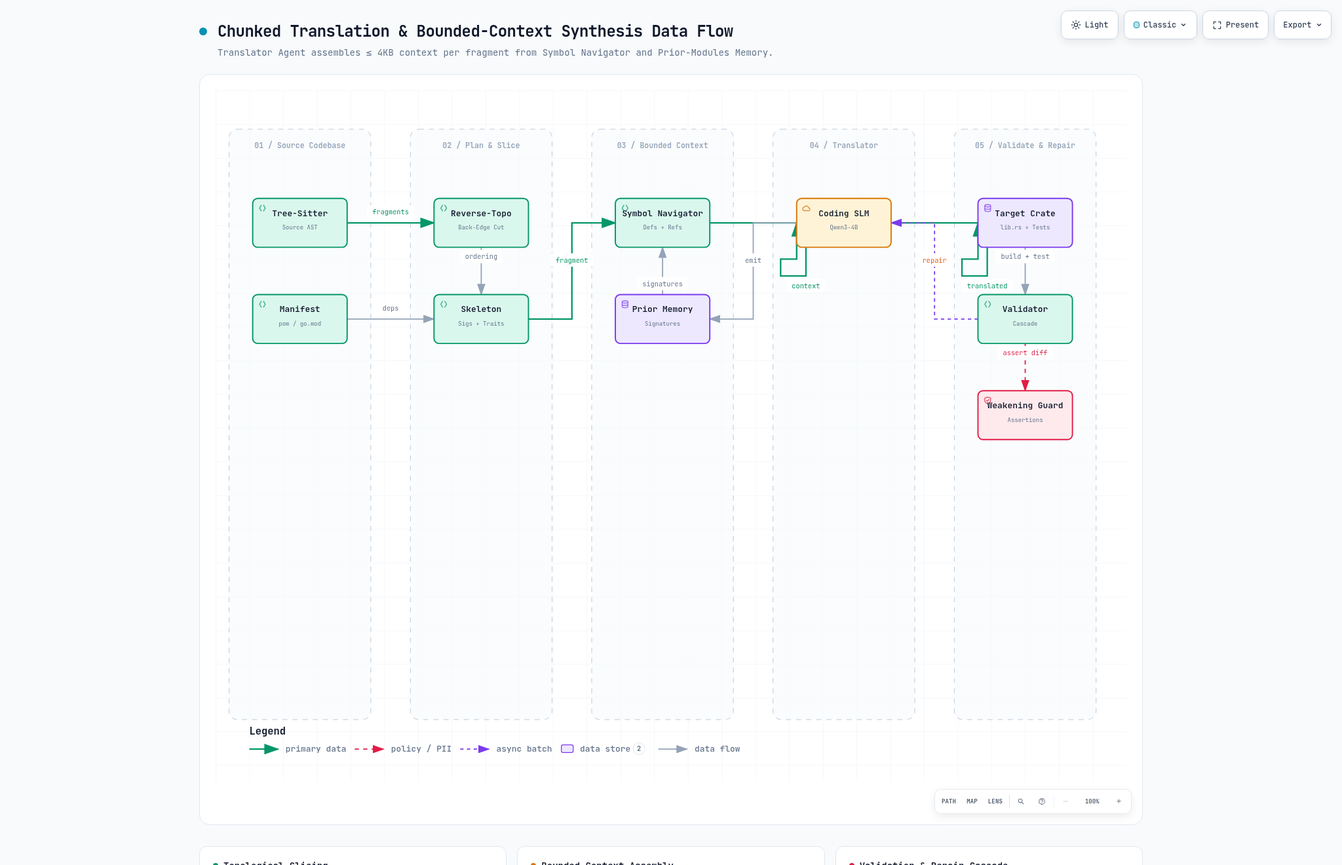
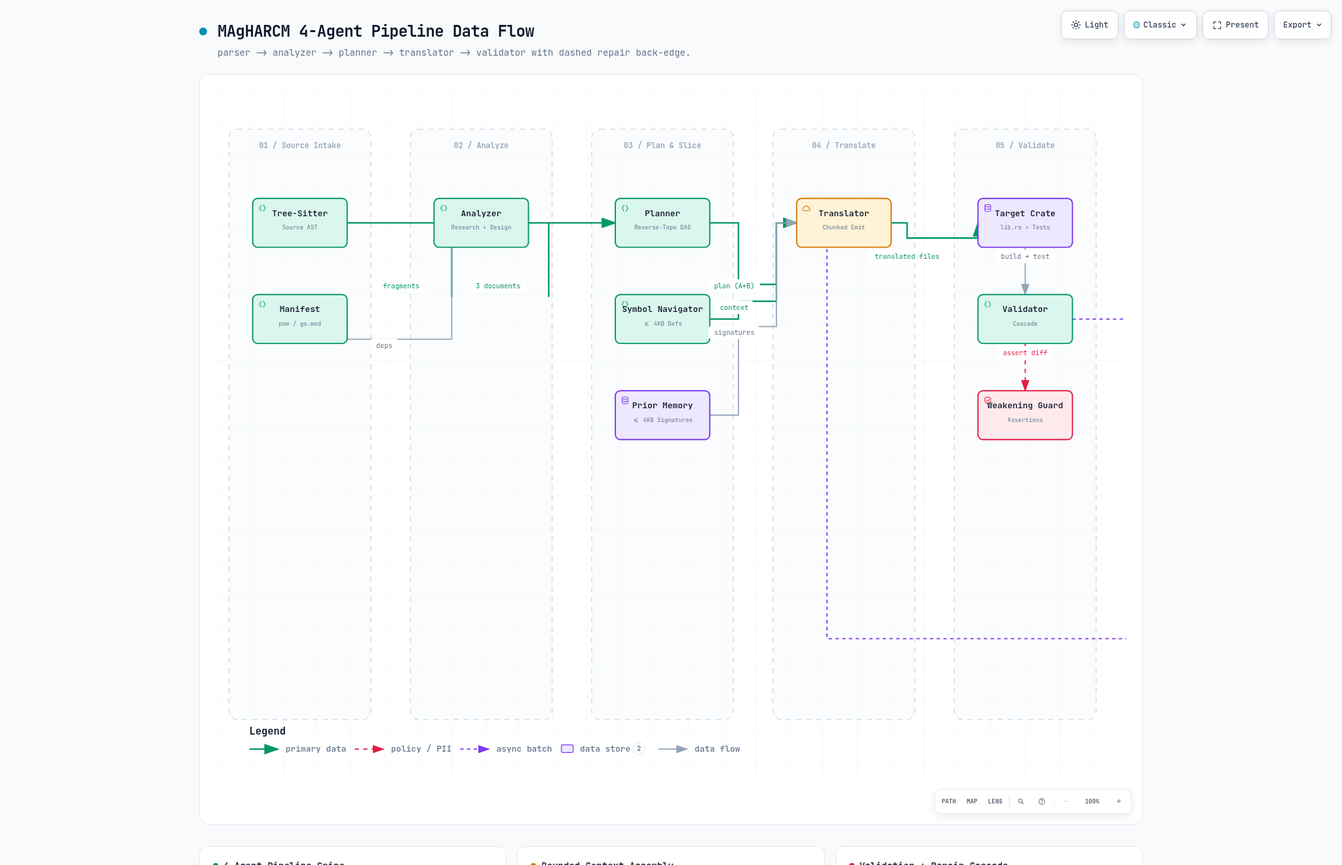
figure(dataflow): replace obsolete tool-centric spine with 4-agent pipeline
Per advisory: the dataflow still showed the obsolete PRIM-2 Symbol
Navigator + Prior Memory as the spine, when the actual architecture
is parser -> analyzer -> planner -> translator -> validator.

Restructured the dataflow to show:
- Source Intake stage: parser (Tree-Sitter) + Manifest
- Analyze stage: Analyzer (8B reasoning) emitting 3 documents
- Plan & Slice stage: Planner (Reverse-Topo DAG)
- Translate stage: Translator (4B coding) bounded by Symbol
  Navigator + Prior Memory as context inputs (not spine)
- Validate stage: Target Crate -> Validator cascade -> Weakening
  Guard
- Dashed repair back-edge: validator -> translator routed around
  the bottom of the diagram (mirrors workflow's repair loop)

Routing fixes (10 flows, all showcase-validated):
- Use explicit via arrays with x/y alignment to neighbor segments
- Spread spine corridor at x=620 (right of stage 2 nodes) to
  prevent edge-through-node collisions on stacked nodes
- Route translator -> rust_crate via x=820 (left of validator column)
- Route repair via x=725 corridor below node row
- labelAt positions chosen to avoid label-route-clearance violations

Result: archify validate --quality showcase passes for all 9 checks
on the dataflow; lifecycle unchanged and still passing.

Verification:
- python3 -c 'import json; json.load(open("chunked-translation.dataflow.json"))'
  passes (10 flows, 3 cards)
- archify validate dataflow --quality showcase: ok=true
[…]

diff --git a/docs/.paper/figures/chunked-translation.html b/docs/.paper/figures/chunked-translation.html
@@ -4,7 +4,7 @@
   <meta charset="UTF-8">
   <meta name="viewport" content="width=device-width, initial-scale=1.0">
   <meta name="generator" content="archify 2.17.0-dev.1">
-  <title>Chunked Translation &amp; Bounded-Context Synthesis Data Flow Diagram</title>
+  <title>MAgHARCM 4-Agent Pipeline Data Flow Diagram</title>
   <script>
     // Resolve the theme before first paint so light-preference users don't
     // see a dark flash. The toolbar script below re-applies with UI state.
@@ -4955,9 +4955,9 @@
            data-preset-badge-blueprint="BLUEPRINT / REV 01"
            data-preset-badge-editorial="EDITORIAL / FIELD NOTE">
         <div class="pulse-dot"></div>
-        <h1>Chunked Translation &amp; Bounded-Context Synthesis Data Flow</h1>
+        <h1>MAgHARCM 4-Agent Pipeline Data Flow</h1>
       </div>
-      <p class="subtitle">Translator Agent assembles ≤ 4KB context per fragment from Symbol Navigator and Prior-Modules Memory.</p>
+      <p class="subtitle">parser -&gt; analyzer -&gt; planner -&gt; translator -&gt; validator with dashed repair back-edge.</p>
     </div>
 
     <script id="archify-guided-views-data" type="application/json">[]</script>
@@ -5006,8 +5006,8 @@
     <div class="diagram-container" data-detail-level="read"
          data-preset-badge-editorial-plate="ARCHIFY / PLATE 04">
       <svg viewBox="0 0 1080 820" role="img" lang="en" aria-labelledby="archify-diagram-title archify-diagram-description" data-preset="classic" data-quality-profile="showcase">
-        <title id="archify-diagram-title">Chunked Translation &amp; Bounded-Context Synthesis Data Flow</title>
-        <desc id="archify-diagram-description">Translator Agent assembles ≤ 4KB context per fragment from Symbol Navigator and Prior-Modules Memory.</desc>
+        <title id="archify-diagram-title">MAgHARCM 4-Agent Pipeline Data Flow</title>
+        <desc id="archify-diagram-description">parser -&gt; analyzer -&gt; planner -&gt; translator -&gt; validator with dashed repair back-edge.</desc>
         <!-- Definitions -->
         <defs>
           <marker id="arrowhead" markerWidth="10" markerHeight="7" refX="9" refY="3.5" orient="auto">
@@ -5032,36 +5032,35 @@
 
         <!-- Data Stages -->
         <rect data-graph-role="structural-frame" data-composition-frame-kind="stage" data-composition-frame-id="0" x="16" y="46" width="168" height="700" rx="10" class="c-lane" stroke-width="1"/>
-        <text x="100" y="68" class="t-dim" font-size="9" font-weight="600" text-anchor="middle">01 / Source Codebase</text>
+        <text x="100" y="68" class="t-dim" font-size="9" font-weight="600" text-anchor="middle">01 / Source Intake</text>
 
         <rect data-graph-role="structural-frame" data-composition-frame-kind="stage" data-composition-frame-id="1" x="231" y="46" width="168" height="700" rx="10" class="c-lane" stroke-width="1"/>
-        <text x="315" y="68" class="t-dim" font-size="9" font-weight="600" text-anchor="middle">02 / Plan &amp; Slice</text>
+        <text x="315" y="68" class="t-dim" font-size="9" font-weight="600" text-anchor="middle">02 / Analyze</text>
 
         <rect data-graph-role="structural-frame" data-composition-frame-kind="stage" data-composition-frame-id="2" x="446" y="46" width="168" height="700" rx="10" class="c-lane" stroke-width="1"/>
-        <text x="530" y="68" class="t-dim" font-size="9" font-weight="600" text-anchor="middle">03 / Bounded Context</text>
+        <text x="530" y="68" class="t-dim" font-size="9" font-weight="600" text-anchor="middle">03 / Plan &amp; Slice</text>
 
         <rect data-graph-role="structural-frame" data-composition-frame-kind="stage" data-composition-frame-id="3" x="661" y="46" width="168" height="700" rx="10" class="c-lane" stroke-width="1"/>
-        <text x="745" y="68" class="t-dim" font-size="9" font-weight="600" text-anchor="middle">04 / Translator</text>
+        <text x="745" y="68" class="t-dim" font-size="9" font-weight="600" text-anchor="middle">04 / Translate</text>
 
         <rect data-graph-role="structural-frame" data-composition-frame-kind="stage" data-composition-frame-id="4" x="876" y="46" width="168" height="700" rx="10" class="c-lane" stroke-width="1"/>
-        <text x="960" y="68" class="t-dim" font-size="9" font-weight="600" text-anchor="middle">05 / Validate &amp; Repair</text>
+        <text x="960" y="68" class="t-dim" font-size="9" font-weight="600" text-anchor="middle">05 / Validate</text>
 
         <!-- Flow paths -->
-        <path data-edge-from="src_ast" data-edge-to="reverse_topo" data-edge-label="fragments" data-edge-key="0" data-composition-points="156,157;259,157" d="M 156 157 L 259 157" class="a-emphasis" stroke-width="1.8" marker-end="url(#arrowhead-emphasis)"/>
-        <path data-edge-from="src_manifest" data-edge-to="skeleton" data-edge-label="deps" data-edge-key="1" data-composition-points="156,271;259,271" d="M 156 271 L 259 271" class="a-default" stroke-width="1.4" marker-end="url(#arrowhead)"/>
-        <path data-edge-from="reverse_topo" data-edge-to="skeleton" data-edge-label="ordering" data-edge-key="2" data-composition-points="315,186;315,242" d="M 315 186 L 315 242" class="a-default" stroke-width="1.4" marker-end="url(#arrowhead)"/>
-        <path data-edge-from="skeleton" data-edge-to="nav_symbols" data-edge-label="fragment" data-edge-key="3" data-composition-points="371,271;422.5,271;422.5,157;474,157" d="M 371 271 L 422.5 271 L 422.5 157 L 474 157" class="a-emphasis" stroke-width="1.8" marker-end="url(#arrowhead-emphasis)"/>
-        <path data-edge-from="prior_summary" data-edge-to="nav_symbols" data-edge-label="signatures" data-edge-key="4" data-composition-points="530,242;530,186" d="M 530 242 L 530 186" class="a-default" stroke-width="1.4" marker-end="url(#arrowhead)"/>
-        <path data-edge-from="nav_symbols" data-edge-to="coding_slm" data-edge-label="context" data-edge-key="5" data-composition-points="586,157;700,157;700,220;670,220;670,200;689,200;689,157" d="M 586 157 L 700 157 L 700 220 L 670 220 L 670 200 L 689 200 L 689 157" class="a-emphasis" stroke-width="1.8" marker-end="url(#arrowhead-emphasis)"/>
-        <path data-edge-from="coding_slm" data-edge-to="rust_crate" data-edge-label="translated" data-edge-key="6" data-composition-points="801,157;915,157;915,220;885,220;885,200;904,200;904,157" d="M 801 157 L 915 157 L 915 220 L 885 220 L 885 200 L 904 200 L 904 157" class="a-emphasis" stroke-width="1.8" marker-end="url(#arrowhead-emphasis)"/>
-        <path data-edge-from="coding_slm" data-edge-to="prior_summary" data-edge-label="emit" data-edge-key="7" data-composition-points="689,157;637.5,157;637.5,271;586,271" d="M 689 157 L 637.5 157 L 637.5 271 L 586 271" class="a-default" stroke-width="1.4" marker-end="url(#arrowhead)"/>
-        <path data-edge-from="rust_crate" data-edge-to="validation_report" data-edge-label="build + test" data-edge-key="8" data-composition-points="960,186;960,242" d="M 960 186 L 960 242" class="a-default" stroke-width="1.4" marker-end="url(#arrowhead)"/>
-        <path data-edge-from="validation_report" data-edge-to="weakening_guard" data-edge-label="assert diff" data-edge-key="9" data-composition-points="960,300;960,356" d="M 960 300 L 960 356" class="a-security" stroke-width="1.4" marker-end="url(#arrowhead-security)"/>
-        <path data-edge-from="validation_report" data-edge-to="coding_slm" data-edge-label="repair" data-edge-key="10" data-composition-points="904,271;852.5,271;852.5,157;801,157" d="M 904 271 L 852.5 271 L 852.5 157 L 801 157" class="a-dashed" stroke-width="1.4" marker-end="url(#arrowhead-dashed)"/>
+        <path data-edge-from="src_ast" data-edge-to="analyzer_doc" data-edge-label="fragments" data-edge-key="0" data-composition-points="156,157;280,157;280,245;280,157;259,157" d="M 156 157 L 280 157 L 280 245 L 280 157 L 259 157" class="a-emphasis" stroke-width="1.8" marker-end="url(#arrowhead-emphasis)"/>
+        <path data-edge-from="src_manifest" data-edge-to="analyzer_doc" data-edge-label="deps" data-edge-key="1" data-composition-points="156,271;156,295;280,295;280,157;259,157" d="M 156 271 L 156 295 L 280 295 L 280 157 L 259 157" class="a-default" stroke-width="1.4" marker-end="url(#arrowhead)"/>
+        <path data-edge-from="analyzer_doc" data-edge-to="skeleton" data-edge-label="3 documents" data-edge-key="2" data-composition-points="371,157;395,157;395,245;395,157;474,157" d="M 371 157 L 395 157 L 395 245 L 395 157 L 474 157" class="a-emphasis" stroke-width="1.8" marker-end="url(#arrowhead-emphasis)"/>
+        <path data-edge-from="skeleton" data-edge-to="translator_agent" data-edge-label="plan (A+B)" data-edge-key="3" data-composition-points="586,157;620,157;620,230;665,230;665,157;689,157" d="M 586 157 L 620 157 L 620 230 L 665 230 L 665 157 L 689 157" class="a-emphasis" stroke-width="1.8" marker-end="url(#arrowhead-emphasis)"/>
+        <path data-edge-from="nav_symbols" data-edge-to="translator_agent" data-edge-label="context" data-edge-key="4" data-composition-points="586,271;620,271;620,250;665,250;665,157;689,157" d="M 586 271 L 620 271 L 620 250 L 665 250 L 665 157 L 689 157" class="a-emphasis" stroke-width="1.8" marker-end="url(#arrowhead-emphasis)"/>
+        <path data-edge-from="prior_memory" data-edge-to="translator_agent" data-edge-label="signatures" data-edge-key="5" data-composition-points="586,385;620,385;620,280;665,280;665,157;689,157" d="M 586 385 L 620 385 L 620 280 L 665 280 L 665 157 L 689 157" class="a-default" stroke-width="1.4" marker-end="url(#arrowhead)"/>
+        <path data-edge-from="translator_agent" data-edge-to="rust_crate" data-edge-label="translated files" data-edge-key="6" data-composition-points="801,157;785,157;820,157;820,175;904,175;904,157" d="M 801 157 L 785 157 L 820 157 L 820 175 L 904 175 L 904 157" class="a-emphasis" stroke-width="1.8" marker-end="url(#arrowhead-emphasis)"/>
+        <path data-edge-from="rust_crate" data-edge-to="validator_agent" data-edge-label="build + test" data-edge-key="7" data-composition-points="960,186;960,242" d="M 960 186 L 960 242" class="a-default" stroke-width="1.4" marker-end="url(#arrowhead)"/>
+        <path data-edge-from="validator_agent" data-edge-to="weakening_guard" data-edge-label="assert diff" data-edge-key="8" data-composition-points="960,300;960,356" d="M 960 300 L 960 356" class="a-security" stroke-width="1.4" marker-end="url(#arrowhead-security)"/>
+        <path data-edge-from="validator_agent" data-edge-to="translator_agent" data-edge-label="repair" data-edge-key="9" data-composition-points="904,271;1100,271;1100,650;725,650;725,157;801,157" d="M 904 271 L 1100 271 L 1100 650 L 725 650 L 725 157 L 801 157" class="a-dashed" stroke-width="1.4" marker-end="url(#arrowhead-dashed)"/>
 
         <!-- Nodes -->
-        <g id="node-src_ast" data-node-id="src_ast" data-node-label="Tree-Sitter" tabindex="0" role="button" aria-label="Focus Tree-Sitter, Source AST, 01 / Source Codebase" aria-pressed="false" data-node-kind="backend" data-node-sublabel="Source AST" data-node-tag="PA tool" data-node-context="01 / Source Codebase">
-          <title>Tree-Sitter · Source AST · 01 / Source Codebase · PA tool</title>
+        <g id="node-src_ast" data-node-id="src_ast" data-node-label="Tree-Sitter" tabindex="0" role="button" aria-label="Focus Tree-Sitter, Source AST, 01 / Source Intake" aria-pressed="false" data-node-kind="backend" data-node-sublabel="Source AST" data-node-tag="parser" data-node-context="01 / Source Intake">
+          <title>Tree-Sitter · Source AST · 01 / Source Intake · parser</title>
           <rect x="44" y="128" width="112" height="58" rx="6" class="c-mask"/>
           <rect x="44" y="128" width="112" height="58" rx="6" class="c-backend" stroke-width="1.5"/>
           <g aria-hidden="true" data-semantic-sigil="backend" class="semantic-sigil s-backend" transform="translate(50 134) scale(0.6875)">
@@ -5069,11 +5068,11 @@
           </g>
           <text data-node-label="" data-detail-anchor="" x="100" y="149" class="t-primary" font-size="10" font-weight="600" text-anchor="middle">Tree-Sitter</text>
           <text data-detail="context" x="100" y="165" class="t-muted" font-size="7" text-anchor="middle">Source AST</text>
-        <text data-detail="fine" x="100" y="175" class="t-backend" font-size="7" text-anchor="middle">PA tool</text>
+        <text data-detail="fine" x="100" y="175" class="t-backend" font-size="7" text-anchor="middle">parser</text>
         </g>
 
-        <g id="node-src_manifest" data-node-id="src_manifest" data-node-label="Manifest" tabindex="0" role="button" aria-label="Focus Manifest, pom / go.mod, 01 / Source Codebase" aria-pressed="false" data-node-kind="backend" data-node-sublabel="pom / go.mod" data-node-tag="Deps" data-node-context="01 / Source Codebase">
-          <title>Manifest · pom / go.mod · 01 / Source Codebase · Deps</title>
+        <g id="node-src_manifest" data-node-id="src_manifest" data-node-label="Manifest" tabindex="0" role="button" aria-label="Focus Manifest, pom / go.mod, 01 / Source Intake" aria-pressed="false" data-node-kind="backend" data-node-sublabel="pom / go.mod" data-node-tag="deps" data-node-context="01 / Source Intake">
+          <title>Manifest · pom / go.mod · 01 / Source Intake · deps</title>
           <rect x="44" y="242" width="112" height="58" rx="6" class="c-mask"/>
           <rect x="44" y="242" width="112" height="58" rx="6" class="c-backend" stroke-width="1.5"/>
           <g aria-hidden="true" data-semantic-sigil="backend" class="semantic-sigil s-backend" transform="translate(50 248) scale(0.6875)">
@@ -5081,72 +5080,72 @@
           </g>
           <text data-node-label="" data-detail-anchor="" x="100" y="263" class="t-primary" font-size="10" font-weight="600" text-anchor="middle">Manifest</text>
           <text data-detail="context" x="100" y="279" class="t-muted" font-size="7" text-anchor="middle">pom / go.mod</text>
-        <text data-detail="fine" x="100" y="289" class="t-backend" font-size="7" text-anchor="middle">Deps</text>
+        <text data-detail="fine" x="100" y="289" class="t-backend" font-size="7" text-anchor="middle">deps</text>
         </g>
 
-        <g id="node-reverse_topo" data-node-id="reverse_topo" data-node-label="Reverse-Topo" tabindex="0" role="button" aria-label="Focus Reverse-Topo, Back-Edge Cut, 02 / Plan &amp; Slice" aria-pressed="false" data-node-kind="backend" data-node-sublabel="Back-Edge Cut" data-node-tag="Planner" data-node-context="02 / Plan &amp; Slice">
-          <title>Reverse-Topo · Back-Edge Cut · 02 / Plan &amp; Slice · Planner</title>
+        <g id="node-analyzer_doc" data-node-id="analyzer_doc" data-node-label="Analyzer" tabindex="0" role="button" aria-label="Focus Analyzer, Research + Design, 02 / Analyze" aria-pressed="false" data-node-kind="backend" data-node-sublabel="Research + Design" data-node-tag="8B reasoning" data-node-context="02 / Analyze">
+          <title>Analyzer · Research + Design · 02 / Analyze · 8B reasoning</title>
           <rect x="259" y="128" width="112" height="58" rx="6" class="c-mask"/>
           <rect x="259" y="128" width="112" height="58" rx="6" class="c-backend" stroke-width="1.5"/>
           <g aria-hidden="true" data-semantic-sigil="backend" class="semantic-sigil s-backend" transform="translate(265 134) scale(0.6875)">
             <path d="M6 3 3 8l3 5M10 3l3 5-3 5"/>
           </g>
-          <text data-node-label="" data-detail-anchor="" x="315" y="149" class="t-primary" font-size="10" font-weight="600" text-anchor="middle">Reverse-Topo</text>
-          <text data-detail="context" x="315" y="165" class="t-muted" font-size="7" text-anchor="middle">Back-Edge Cut</text>
-        <text data-detail="fine" x="315" y="175" class="t-backend" font-size="7" text-anchor="middle">Planner</text>
+          <text data-node-label="" data-detail-anchor="" x="315" y="149" class="t-primary" font-size="10" font-weight="600" text-anchor="middle">Analyzer</text>
+          <text data-detail="context" x="315" y="165" class="t-muted" font-size="7" text-anchor="middle">Research + Design</text>
+        <text data-detail="fine" x="315" y="175" class="t-backend" font-size="7" text-anchor="middle">8B reasoning</text>
         </g>
 
-        <g id="node-skeleton" data-node-id="skeleton" data-node-label="Skeleton" tabindex="0" role="button" aria-label="Focus Skeleton, Sigs + Traits, 02 / Plan &amp; Slice" aria-pressed="false" data-node-kind="backend" data-node-sublabel="Sigs + Traits" data-node-tag="Part A" data-node-context="02 / Plan &amp; Slice">
-          <title>Skeleton · Sigs + Traits · 02 / Plan &amp; Slice · Part A</title>
-          <rect x="259" y="242" width="112" height="58" rx="6" class="c-mask"/>
-          <rect x="259" y="242" width="112" height="58" rx="6" class="c-backend" stroke-width="1.5"/>
-          <g aria-hidden="true" data-semantic-sigil="backend" class="semantic-sigil s-backend" transform="translate(265 248) scale(0.6875)">
-            <path d="M6 3 3 8l3 5M10 3l3 5-3 5"/>
-          </g>
-          <text data-node-label="" data-detail-anchor="" x="315" y="263" class="t-primary" font-size="10" font-weight="600" text-anchor="middle">Skeleton</text>
-          <text data-detail="context" x="315" y="279" class="t-muted" font-size="7" text-anchor="middle">Sigs + Traits</text>
-        <text data-detail="fine" x="315" y="289" class="t-backend" font-size="7" text-anchor="middle">Part A</text>
-        </g>
-
-        <g id="node-nav_symbols" data-node-id="nav_symbols" data-node-label="Symbol Navigator" tabindex="0" role="button" aria-label="Focus Symbol Navigator, Defs + Refs, 03 / Bounded Context" aria-pressed="false" data-node-kind="backend" data-node-sublabel="Defs + Refs" data-node-tag="&lt;= 4KB" data-node-context="03 / Bounded Context">
-          <title>Symbol Navigator · Defs + Refs · 03 / Bounded Context · &lt;= 4KB</title>
+        <g id="node-skeleton" data-node-id="skeleton" data-node-label="Planner" tabindex="0" role="button" aria-label="Focus Planner, Reverse-Topo DAG, 03 / Plan &amp; Slice" aria-pressed="false" data-node-kind="backend" data-node-sublabel="Reverse-Topo DAG" data-node-tag="Part A + B" data-node-context="03 / Plan &amp; Slice">
+          <title>Planner · Reverse-Topo DAG · 03 / Plan &amp; Slice · Part A + B</title>
           <rect x="474" y="128" width="112" height="58" rx="6" class="c-mask"/>
           <rect x="474" y="128" width="112" height="58" rx="6" class="c-backend" stroke-width="1.5"/>
           <g aria-hidden="true" data-semantic-sigil="backend" class="semantic-sigil s-backend" transform="translate(480 134) scale(0.6875)">
             <path d="M6 3 3 8l3 5M10 3l3 5-3 5"/>
           </g>
-          <text data-node-label="" data-detail-anchor="" x="530" y="149" class="t-primary" font-size="10" font-weight="600" text-anchor="middle">Symbol Navigator</text>
-          <text data-detail="context" x="530" y="165" class="t-muted" font-size="7" text-anchor="middle">Defs + Refs</text>
-        <text data-detail="fine" x="530" y="175" class="t-backend" font-size="7" text-anchor="middle">&lt;= 4KB</text>
+          <text data-node-label="" data-detail-anchor="" x="530" y="149" class="t-primary" font-size="10" font-weight="600" text-anchor="middle">Planner</text>
+          <text data-detail="context" x="530" y="165" class="t-muted" font-size="7" text-anchor="middle">Reverse-Topo DAG</text>
+        <text data-detail="fine" x="530" y="175" class="t-backend" font-size="7" text-anchor="middle">Part A + B</text>
         </g>
 
-        <g id="node-prior_summary" data-node-id="prior_summary" data-node-label="Prior Memory" tabindex="0" role="button" aria-label="Focus Prior Memory, Signatures, 03 / Bounded Context" aria-pressed="false" data-node-kind="database" data-node-sublabel="Signatures" data-node-tag="&lt;= 4KB" data-node-context="03 / Bounded Context">
-          <title>Prior Memory · Signatures · 03 / Bounded Context · &lt;= 4KB</title>
+        <g id="node-nav_symbols" data-node-id="nav_symbols" data-node-label="Symbol Navigator" tabindex="0" role="button" aria-label="Focus Symbol Navigator, &lt;= 4KB Defs, 03 / Plan &amp; Slice" aria-pressed="false" data-node-kind="backend" data-node-sublabel="&lt;= 4KB Defs" data-node-tag="context" data-node-context="03 / Plan &amp; Slice">
+          <title>Symbol Navigator · &lt;= 4KB Defs · 03 / Plan &amp; Slice · context</title>
           <rect x="474" y="242" width="112" height="58" rx="6" class="c-mask"/>
-          <rect x="474" y="242" width="112" height="58" rx="6" class="c-database" stroke-width="1.5"/>
-          <g aria-hidden="true" data-semantic-sigil="database" class="semantic-sigil s-database" transform="translate(480 248) scale(0.6875)">
+          <rect x="474" y="242" width="112" height="58" rx="6" class="c-backend" stroke-width="1.5"/>
+          <g aria-hidden="true" data-semantic-sigil="backend" class="semantic-sigil s-backend" transform="translate(480 248) scale(0.6875)">
+            <path d="M6 3 3 8l3 5M10 3l3 5-3 5"/>
+          </g>
+          <text data-node-label="" data-detail-anchor="" x="530" y="263" class="t-primary" font-size="10" font-weight="600" text-anchor="middle">Symbol Navigator</text>
+          <text data-detail="context" x="530" y="279" class="t-muted" font-size="7" text-anchor="middle">&lt;= 4KB Defs</text>
+        <text data-detail="fine" x="530" y="289" class="t-backend" font-size="7" text-anchor="middle">context</text>
+        </g>
+
+        <g id="node-prior_memory" data-node-id="prior_memory" data-node-label="Prior Memory" tabindex="0" role="button" aria-label="Focus Prior Memory, &lt;= 4KB Signatures, 03 / Plan &amp; Slice" aria-pressed="false" data-node-kind="database" data-node-sublabel="&lt;= 4KB Signatures" data-node-tag="context" data-node-context="03 / Plan &amp; Slice">
+          <title>Prior Memory · &lt;= 4KB Signatures · 03 / Plan &amp; Slice · context</title>
+          <rect x="474" y="356" width="112" height="58" rx="6" class="c-mask"/>
+          <rect x="474" y="356" width="112" height="58" rx="6" class="c-database" stroke-width="1.5"/>
+          <g aria-hidden="true" data-semantic-sigil="database" class="semantic-sigil s-database" transform="translate(480 362) scale(0.6875)">
             <ellipse cx="8" cy="4" rx="5" ry="2"/>
             <path d="M3 4v8c0 1.1 2.2 2 5 2s5-.9 5-2V4M3 8c0 1.1 2.2 2 5 2s5-.9 5-2"/>
           </g>
-          <text data-node-label="" data-detail-anchor="" x="530" y="263" class="t-primary" font-size="10" font-weight="600" text-anchor="middle">Prior Memory</text>
-          <text data-detail="context" x="530" y="279" class="t-muted" font-size="7" text-anchor="middle">Signatures</text>
-        <text data-detail="fine" x="530" y="289" class="t-database" font-size="7" text-anchor="middle">&lt;= 4KB</text>
+          <text data-node-label="" data-detail-anchor="" x="530" y="377" class="t-primary" font-size="10" font-weight="600" text-anchor="middle">Prior Memory</text>
+          <text data-detail="context" x="530" y="393" class="t-muted" font-size="7" text-anchor="middle">&lt;= 4KB Signatures</text>
+        <text data-detail="fine" x="530" y="403" class="t-database" font-size="7" text-anchor="middle">context</text>
         </g>
 
-        <g id="node-coding_slm" data-node-id="coding_slm" data-node-label="Coding SLM" tabindex="0" role="button" aria-label="Focus Coding SLM, Qwen3-4B, 04 / Translator" aria-pressed="false" data-node-kind="cloud" data-node-sublabel="Qwen3-4B" data-node-tag="Ollama" data-node-context="04 / Translator">
-          <title>Coding SLM · Qwen3-4B · 04 / Translator · Ollama</title>
+        <g id="node-translator_agent" data-node-id="translator_agent" data-node-label="Translator" tabindex="0" role="button" aria-label="Focus Translator, Chunked Emit, 04 / Translate" aria-pressed="false" data-node-kind="cloud" data-node-sublabel="Chunked Emit" data-node-tag="4B coding" data-node-context="04 / Translate">
+          <title>Translator · Chunked Emit · 04 / Translate · 4B coding</title>
           <rect x="689" y="128" width="112" height="58" rx="6" class="c-mask"/>
           <rect x="689" y="128" width="112" height="58" rx="6" class="c-cloud" stroke-width="1.5"/>
           <g aria-hidden="true" data-semantic-sigil="cloud" class="semantic-sigil s-cloud" transform="translate(695 134) scale(0.6875)">
             <path d="M4.3 12.5h7.3a2.4 2.4 0 0 0 .2-4.8 4 4 0 0 0-7.5-1.3A3.1 3.1 0 0 0 4.3 12.5Z"/>
           </g>
-          <text data-node-label="" data-detail-anchor="" x="745" y="149" class="t-primary" font-size="10" font-weight="600" text-anchor="middle">Coding SLM</text>
-          <text data-detail="context" x="745" y="165" class="t-muted" font-size="7" text-anchor="middle">Qwen3-4B</text>
-        <text data-detail="fine" x="745" y="175" class="t-cloud" font-size="7" text-anchor="middle">Ollama</text>
+          <text data-node-label="" data-detail-anchor="" x="745" y="149" class="t-primary" font-size="10" font-weight="600" text-anchor="middle">Translator</text>
+          <text data-detail="context" x="745" y="165" class="t-muted" font-size="7" text-anchor="middle">Chunked Emit</text>
+        <text data-detail="fine" x="745" y="175" class="t-cloud" font-size="7" text-anchor="middle">4B coding</text>
         </g>
 
-        <g id="node-rust_crate" data-node-id="rust_crate" data-node-label="Target Crate" tabindex="0" role="button" aria-label="Focus Target Crate, lib.rs + Tests, 05 / Validate &amp; Repair" aria-pressed="false" data-node-kind="database" data-node-sublabel="lib.rs + Tests" data-node-tag="Cargo Build" data-node-context="05 / Validate &amp; Repair">
-          <title>Target Crate · lib.rs + Tests · 05 / Validate &amp; Repair · Cargo Build</title>
+        <g id="node-rust_crate" data-node-id="rust_crate" data-node-label="Target Crate" tabindex="0" role="button" aria-label="Focus Target Crate, lib.rs + Tests, 05 / Validate" aria-pressed="false" data-node-kind="database" data-node-sublabel="lib.rs + Tests" data-node-tag="Cargo Build" data-node-context="05 / Validate">
+          <title>Target Crate · lib.rs + Tests · 05 / Validate · Cargo Build</title>
           <rect x="904" y="128" width="112" height="58" rx="6" class="c-mask"/>
           <rect x="904" y="128" width="112" height="58" rx="6" class="c-database" stroke-width="1.5"/>
           <g aria-hidden="true" data-semantic-sigil="database" class="semantic-sigil s-database" transform="translate(910 134) scale(0.6875)">
@@ -5158,8 +5157,8 @@
         <text data-detail="fine" x="960" y="175" class="t-database" font-size="7" text-anchor="middle">Cargo Build</text>
         </g>
 
-        <g id="node-validation_report" data-node-id="validation_report" data-node-label="Validator" tabindex="0" role="button" aria-label="Focus Validator, Cascade, 05 / Validate &amp; Repair" aria-pressed="false" data-node-kind="backend" data-node-sublabel="Cascade" data-node-tag="Diagnostics" data-node-context="05 / Validate &amp; Repair">
-          <title>Validator · Cascade · 05 / Validate &amp; Repair · Diagnostics</title>
+        <g id="node-validator_agent" data-node-id="validator_agent" data-node-label="Validator" tabindex="0" role="button" aria-label="Focus Validator, Cascade, 05 / Validate" aria-pressed="false" data-node-kind="backend" data-node-sublabel="Cascade" data-node-tag="AST + cargo" data-node-context="05 / Validate">
+          <title>Validator · Cascade · 05 / Validate · AST + cargo</title>
           <rect x="904" y="242" width="112" height="58" rx="6" class="c-mask"/>
           <rect x="904" y="242" width="112" height="58" rx="6" class="c-backend" stroke-width="1.5"/>
           <g aria-hidden="true" data-semantic-sigil="backend" class="semantic-sigil s-backend" transform="translate(910 248) scale(0.6875)">
@@ -5167,11 +5166,11 @@
           </g>
           <text data-node-label="" data-detail-anchor="" x="960" y="263" class="t-primary" font-size="10" font-weight="600" text-anchor="middle">Validator</text>
           <text data-detail="context" x="960" y="279" class="t-muted" font-size="7" text-anchor="middle">Cascade</text>
-        <text data-detail="fine" x="960" y="289" class="t-backend" font-size="7" text-anchor="middle">Diagnostics</text>
+        <text data-detail="fine" x="960" y="289" class="t-backend" font-size="7" text-anchor="middle">AST + cargo</text>
         </g>
 
-        <g id="node-weakening_guard" data-node-id="weakening_guard" data-node-label="Weakening Guard" tabindex="0" role="button" aria-label="Focus Weakening Guard, Assertions, 05 / Validate &amp; Repair" aria-pressed="false" data-node-kind="security" data-node-sublabel="Assertions" data-node-tag="Defense" data-node-context="05 / Validate &amp; Repair">
-          <title>Weakening Guard · Assertions · 05 / Validate &amp; Repair · Defense</title>
+        <g id="node-weakening_guard" data-node-id="weakening_guard" data-node-label="Weakening Guard" tabindex="0" role="button" aria-label="Focus Weakening Guard, Assertions, 05 / Validate" aria-pressed="false" data-node-kind="security" data-node-sublabel="Assertions" data-node-tag="Defense" data-node-context="05 / Validate">
+          <title>Weakening Guard · Assertions · 05 / Validate · Defense</title>
           <rect x="904" y="356" width="112" height="58" rx="6" class="c-mask"/>
           <rect x="904" y="356" width="112" height="58" rx="6" class="c-security" stroke-width="1.5"/>
           <g aria-hidden="true" data-semantic-sigil="security" class="semantic-sigil s-security" transform="translate(910 362) scale(0.6875)">
@@ -5184,49 +5183,45 @@
         </g>
 
         <!-- Flow labels -->
-        <g data-detail="context" data-edge-from="src_ast" data-edge-to="reverse_topo" data-edge-label="fragments" data-edge-key="0">
-          <rect x="179.45" y="136" width="56.1" height="16" rx="4" class="c-mask"/>
-          <text x="207.5" y="147" class="t-backend" font-size="8" text-anchor="middle">fragments</text>
+        <g data-detail="context" data-edge-from="src_ast" data-edge-to="analyzer_doc" data-edge-label="fragments" data-edge-key="0">
+          <rect x="191.95" y="224" width="56.1" height="16" rx="4" class="c-mask"/>
+          <text x="220" y="235" class="t-backend" font-size="8" text-anchor="middle">fragments</text>
         </g>
-        <g data-detail="context" data-edge-from="src_manifest" data-edge-to="skeleton" data-edge-label="deps" data-edge-key="1">
-          <rect x="190.5" y="250" width="34" height="16" rx="4" class="c-mask"/>
-          <text x="207.5" y="261" class="t-muted" font-size="8" text-anchor="middle">deps</text>
+        <g data-detail="context" data-edge-from="src_manifest" data-edge-to="analyzer_doc" data-edge-label="deps" data-edge-key="1">
+          <rect x="183" y="294" width="34" height="16" rx="4" class="c-mask"/>
+          <text x="200" y="305" class="t-muted" font-size="8" text-anchor="middle">deps</text>
         </g>
-        <g data-detail="context" data-edge-from="reverse_topo" data-edge-to="skeleton" data-edge-label="ordering" data-edge-key="2">
-          <rect x="289.4" y="189" width="51.2" height="16" rx="4" class="c-mask"/>
-          <text x="315" y="200" class="t-muted" font-size="8" text-anchor="middle">ordering</text>
+        <g data-detail="context" data-edge-from="analyzer_doc" data-edge-to="skeleton" data-edge-label="3 documents" data-edge-key="2">
+          <rect x="302.05" y="224" width="65.9" height="16" rx="4" class="c-mask"/>
+          <text x="335" y="235" class="t-backend" font-size="8" text-anchor="middle">3 documents</text>
         </g>
-        <g data-detail="context" data-edge-from="skeleton" data-edge-to="nav_symbols" data-edge-label="fragment" data-edge-key="3">
-          <rect x="396.9" y="193" width="51.2" height="16" rx="4" class="c-mask"/>
-          <text x="422.5" y="204" class="t-backend" font-size="8" text-anchor="middle">fragment</text>
+        <g data-detail="context" data-edge-from="skeleton" data-edge-to="translator_agent" data-edge-label="plan (A+B)" data-edge-key="3">
+          <rect x="584.5" y="224" width="61" height="16" rx="4" class="c-mask"/>
+          <text x="615" y="235" class="t-backend" font-size="8" text-anchor="middle">plan (A+B)</text>
         </g>
-        <g data-detail="context" data-edge-from="prior_summary" data-edge-to="nav_symbols" data-edge-label="signatures" data-edge-key="4">
-          <rect x="499.5" y="221" width="61" height="16" rx="4" class="c-mask"/>
-          <text x="530" y="232" class="t-muted" font-size="8" text-anchor="middle">signatures</text>
+        <g data-detail="context" data-edge-from="nav_symbols" data-edge-to="translator_agent" data-edge-label="context" data-edge-key="4">
+          <rect x="591.85" y="249" width="46.3" height="16" rx="4" class="c-mask"/>
+          <text x="615" y="260" class="t-backend" font-size="8" text-anchor="middle">context</text>
         </g>
-        <g data-detail="context" data-edge-from="nav_symbols" data-edge-to="coding_slm" data-edge-label="context" data-edge-key="5">
-          <rect x="676.85" y="223.5" width="46.3" height="16" rx="4" class="c-mask"/>
-          <text x="700" y="234.5" class="t-backend" font-size="8" text-anchor="middle">context</text>
+        <g data-detail="context" data-edge-from="prior_memory" data-edge-to="translator_agent" data-edge-label="signatures" data-edge-key="5">
+          <rect x="584.5" y="279" width="61" height="16" rx="4" class="c-mask"/>
+          <text x="615" y="290" class="t-muted" font-size="8" text-anchor="middle">signatures</text>
         </g>
-        <g data-detail="context" data-edge-from="coding_slm" data-edge-to="rust_crate" data-edge-label="translated" data-edge-key="6">
-          <rect x="884.5" y="223.5" width="61" height="16" rx="4" class="c-mask"/>
-          <text x="915" y="234.5" class="t-backend" font-size="8" text-anchor="middle">translated</text>
+        <g data-detail="context" data-edge-from="translator_agent" data-edge-to="rust_crate" data-edge-label="translated files" data-edge-key="6">
+          <rect x="774.8" y="189" width="90.4" height="16" rx="4" class="c-mask"/>
+          <text x="820" y="200" class="t-backend" font-size="8" text-anchor="middle">translated files</text>
         </g>
-        <g data-detail="context" data-edge-from="coding_slm" data-edge-to="prior_summary" data-edge-label="emit" data-edge-key="7">
-          <rect x="620.5" y="193" width="34" height="16" rx="4" class="c-mask"/>
-          <text x="637.5" y="204" class="t-muted" font-size="8" text-anchor="middle">emit</text>
-        </g>
-        <g data-detail="context" data-edge-from="rust_crate" data-edge-to="validation_report" data-edge-label="build + test" data-edge-key="8">
+        <g data-detail="context" data-edge-from="rust_crate" data-edge-to="validator_agent" data-edge-label="build + test" data-edge-key="7">
           <rect x="924.6" y="189" width="70.8" height="16" rx="4" class="c-mask"/>
           <text x="960" y="200" class="t-muted" font-size="8" text-anchor="middle">build + test</text>
         </g>
-        <g data-detail="context" data-edge-from="validation_report" data-edge-to="weakening_guard" data-edge-label="assert diff" data-edge-key="9">
+        <g data-detail="context" data-edge-from="validator_agent" data-edge-to="weakening_guard" data-edge-label="assert diff" data-edge-key="8">
           <rect x="927.05" y="303" width="65.9" height="16" rx="4" class="c-mask"/>
           <text x="960" y="314" class="t-security" font-size="8" text-anchor="middle">assert diff</text>
         </g>
-        <g data-detail="context" data-edge-from="validation_report" data-edge-to="coding_slm" data-edge-label="repair" data-edge-key="10">
-          <rect x="831.8" y="193" width="41.4" height="16" rx="4" class="c-mask"/>
-          <text x="852.5" y="204" class="t-messagebus" font-size="8" text-anchor="middle">repair</text>
+        <g data-detail="context" data-edge-from="validator_agent" data-edge-to="translator_agent" data-edge-label="repair" data-edge-key="9">
+          <rect x="1079.3" y="439.5" width="41.4" height="16" rx="4" class="c-mask"/>
+          <text x="1100" y="450.5" class="t-messagebus" font-size="8" text-anchor="middle">repair</text>
         </g>
 
         <!-- Legend -->
@@ -5442,12 +5437,13 @@
       <div class="card">
         <div class="card-header">
           <div class="card-dot emerald"></div>
-          <h3>Topological Slicing</h3>
+          <h3>4-Agent Pipeline Spine</h3>
         </div>
         <ul>
-          <li>&bull; Tree-sitter extracts granular AST fragments across every source file</li>
-          <li>&bull; Reverse-topological sort cuts cyclic back-edges into a forward schedule</li>
-          <li>&bull; Part A (source) and Part B (tests) emitted in dependency order</li>
+          <li>&bull; parser emits source AST + manifest to the Analyzer</li>
+          <li>&bull; Analyzer produces 3 documents via Strategy Registry (TryInOrder)</li>
+          <li>&bull; Planner fragments AST into reverse-topological translation units</li>
+          <li>&bull; Translator emits target files in Part A + Part B order</li>
         </ul>
       </div>
 
@@ -5457,21 +5453,21 @@
           <h3>Bounded Context Assembly</h3>
         </div>
         <ul>
-          <li>&bull; Symbol Navigator returns ≤ 4KB def/reference slice via LSP provider</li>
-          <li>&bull; Prior-Modules Memory injects compact 4KB emitted signatures</li>
-          <li>&bull; Small coding SLM operates within effective attention budget</li>
+          <li>&bull; Symbol Navigator returns &lt;= 4KB def/reference slice via LSP</li>
+          <li>&bull; Prior-Modules Memory injects compact &lt;= 4KB emitted signatures</li>
+          <li>&bull; Small 4B coding SLM operates within effective attention budget</li>
         </ul>
       </div>
 
       <div class="card">
         <div class="card-header">
           <div class="card-dot rose"></div>
-          <h3>Validation &amp; Repair Cascade</h3>
+          <h3>Validation + Repair Cascade</h3>
         </div>
         <ul>
-          <li>&bull; AST pre-check before compiler, then cargo test, then guard, then plateau</li>
-          <li>&bull; Repair loop feeds diagnostics back to the Translator until convergence</li>
-          <li>&bull; Coverage plateau detector bounds repair spinning on large repositories</li>
+          <li>&bull; AST pre-check then cargo build then cargo test then guard</li>
+          <li>&bull; Dashed repair back-edge feeds diagnostics to the Translator</li>
+          <li>&bull; Plateau detector bounds repair spinning on large repositories</li>
         </ul>
       </div>
     </div>
